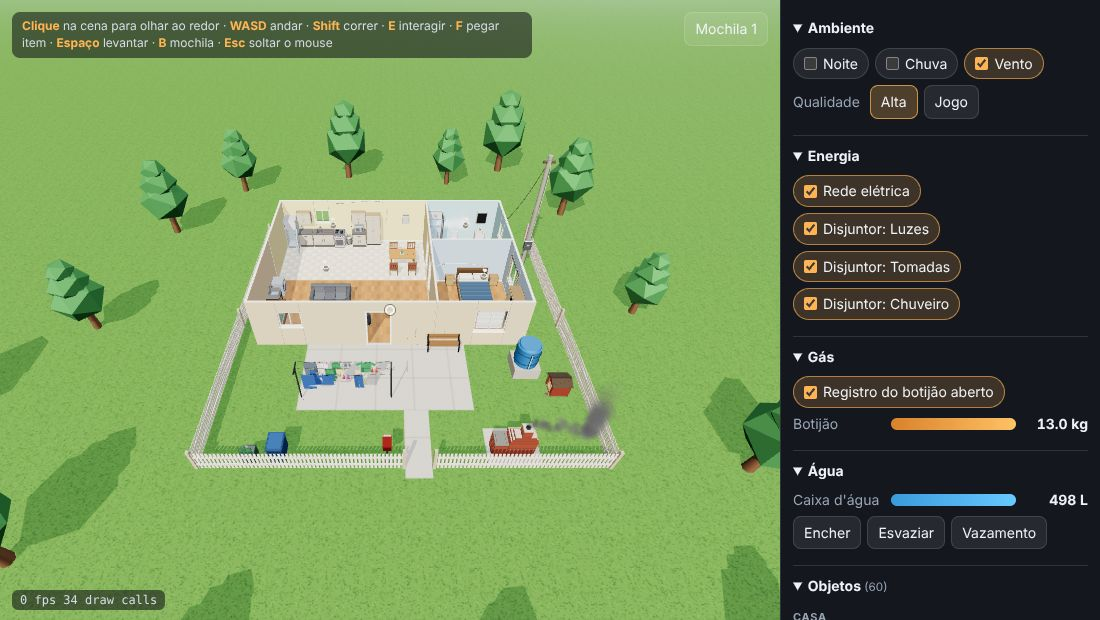
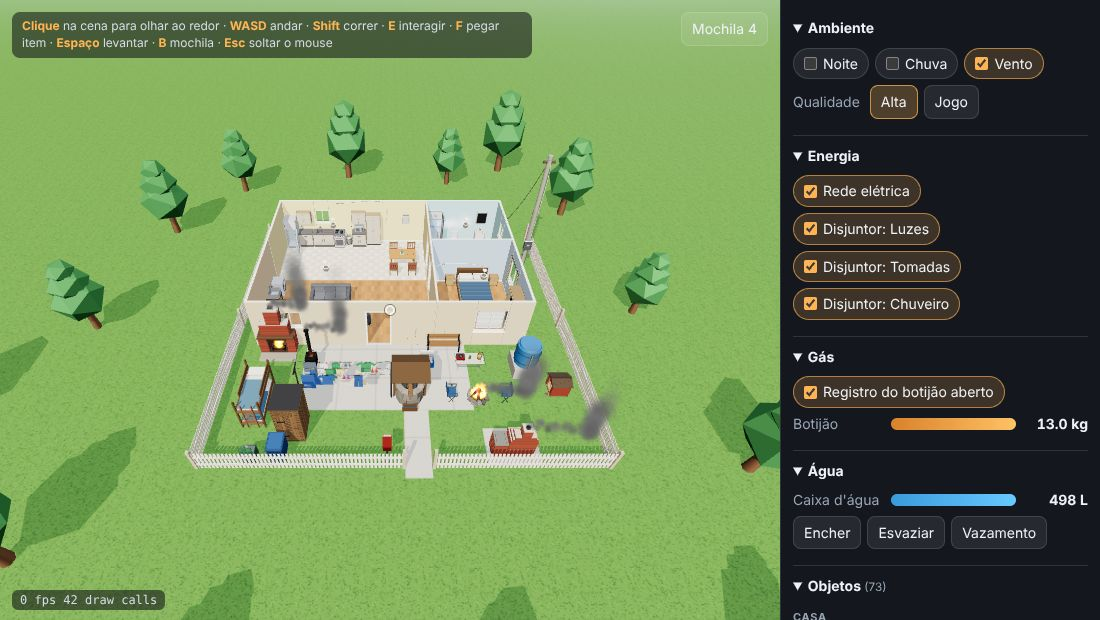
feat(examples): rural and camping corner in the showroom, camp canister and camp chair scenarios in the test area
Claude-Session: https://claude.ai/code/session_017vcr6zHrAeoWxt9fwp4rXz

diff --git a/examples/interactables-test-area/src/scenarios.js b/examples/interactables-test-area/src/scenarios.js
@@ -104,6 +104,47 @@ export function buildScenarios(locale, analysisOf) {
       expect(joints.every((j) => j.kind === 'screw'), T(`Todas as ${joints.length} juntas da cadeira são parafusos`, `All ${joints.length} joints of the chair are screws`))
     }),
 
+    sc('camp_canister_shot', T('Botijão de camping: tiros no casco furam o aço e o gás explode, uma explosão pequena ao lado do fogareiro', 'Camping canister: shots at the shell pierce the steel and the gas explodes, a small blast beside the stove'), ({ room, step, expect }) => {
+      const id = spawn(room, 'gas_canister')
+      const stove = spawn(room, 'camp_stove', [0.35, 0, -5])
+      const shell = analysisOf('gas_canister').destructible.parts.find((p) => p.explodes)
+      const c0 = room.spawned().find((q) => q.objectId === stove).root.position.clone()
+      room.setTool('pistol_9mm')
+      let shots = 0
+      for (; shots < 30 && count(room, 'explode', id) === 0; shots++) shoot(room, step, shell, 0.8)
+      let seconds = 0
+      // a pierced can leaks gas: a flame at the hole lights it and the rest goes up
+      for (; seconds < 60 && count(room, 'explode', id) === 0; seconds++) {
+        room.world.hit(id, { type: 'fire', point: world(shell), temperature: 1000, radius: 0.3, duration: 1 })
+        step(1)
+      }
+      step(1.5)
+      const moved = c0.distanceTo(room.spawned().find((q) => q.objectId === stove)?.root.position ?? c0)
+      const hurt = (room.world.state(stove)?.parts ?? []).filter((p) => p.status !== 'intact').length
+      expect(count(room, 'explode', id) > 0, T(`Botijão explodiu após ${shots} tiro(s) e ${seconds} s de chama (${shell.explodes.energy} J, raio ${shell.explodes.radius} m)`, `Canister exploded after ${shots} shot(s) and ${seconds} s of flame (${shell.explodes.energy} J, radius ${shell.explodes.radius} m)`), { shots, seconds })
+      expect(shell.explodes.energy < 12000, T(`Explosão pequena: ${shell.explodes.energy} J (um botijão de cozinha tem muito mais)`, `A small blast: ${shell.explodes.energy} J (a kitchen bottle has far more)`), { energy: shell.explodes.energy })
+      expect(moved > 0.05 || hurt > 0, T(`O fogareiro ao lado: moveu ${n1(moved)} m, ${hurt} parte(s) danificada(s)`, `The stove next to it: moved ${n1(moved)} m, ${hurt} part(s) damaged`), { moved, hurt })
+    }),
+
+    sc('camp_chair_kicked', T('Cadeira de camping: chutes soltam os clipes e a estrutura de alumínio desmonta', 'Camp chair: kicks free the clips and the aluminium frame comes apart'), ({ room, step, expect }) => {
+      const id = spawn(room, 'camp_chair')
+      const d = analysisOf('camp_chair').destructible
+      const legs = d.parts.filter((p) => p.position[1] - p.shape.size[1] / 2 < 0.05 && p.shape.size[1] > 0.2)
+      const before = room.world.state(id).parts.length
+      let kicks = 0
+      for (; kicks < 24 && room.world.state(id).parts.length === before; kicks++) {
+        const leg = legs[kicks % legs.length]
+        const c = world(leg)
+        room.world.hitPart(id, leg.id, { type: 'blunt', point: [c[0], c[1], c[2]], direction: [0.7, 0, -0.7], energy: 240, radius: 0.05, source: 'kick' })
+        step(0.3)
+      }
+      step(1)
+      const open = room.world.state(id).joints.filter((j) => j.open).length
+      const loose = before - room.world.state(id).parts.length
+      expect(loose > 0 || open > 0, T(`Chutes: ${kicks}; peças que saíram: ${loose}; juntas abertas: ${open}`, `Kicks: ${kicks}; pieces that came off: ${loose}; open joints: ${open}`), { kicks, open })
+      expect(d.joints.every((j) => j.kind === 'clip'), T(`Todas as ${d.joints.length} juntas da cadeira são clipes`, `All ${d.joints.length} joints of the chair are clips`))
+    }),
+
     sc('tv_screen_shatters', T('TV: um tiro na tela quebra o vidro em cacos', 'TV: a shot at the screen shatters the glass'), ({ room, step, expect }) => {
       const id = spawn(room, 'tv')
       const screen = specPart('tv', 'screen')

diff --git a/examples/interactables-showroom/src/showroom.js b/examples/interactables-showroom/src/showroom.js
@@ -31,6 +31,8 @@
     seating: 'Assentos e camas',
     window: 'Janelas',
     yard: 'Quintal',
+    rural: 'Casa rural',
+    camp: 'Acampamento',
     house: 'Casa',
   }
 
@@ -852,6 +854,20 @@
     ['mailbox', 'mailbox', 5.9, 13.65, PI],
     ['dog_house', 'dog_house', 12.9, 10.6, -H],
     ['bench', 'bench', 8.4, 8.42, 0],
+    // rural and camping corner
+    ['fireplace', 'fireplace', 1.0, 8.6, 0],
+    ['wood_stove', 'wood_stove', 2.6, 9.4, 0],
+    ['bunk_bed', 'bunk_bed', 0.7, 11.4, 0],
+    ['outhouse', 'outhouse', 2.3, 12.4, 0],
+    ['well', 'well', 6.8, 10.9, 0],
+    ['campfire', 'campfire', 9.6, 11.0, 0],
+    ['camp_chair_1', 'camp_chair', 10.7, 11.0, -H],
+    ['camp_chair_2', 'camp_chair', 8.5, 11.0, H],
+    ['camp_table', 'camp_table', 9.4, 9.5, 0],
+    ['camp_stove', 'camp_stove', 9.0, 9.5, 0, { y: 0.72 }],
+    ['gas_canister', 'gas_canister', 9.4, 9.5, 0, { y: 0.72 }],
+    ['lantern', 'lantern_lamp', 9.8, 9.5, 0, { y: 0.72 }],
+    ['cooler', 'cooler', 7.6, 9.3, 0],
   ]
 
   const typeInfo = new Map(hh.types.map((t) => [t.id, t]))
